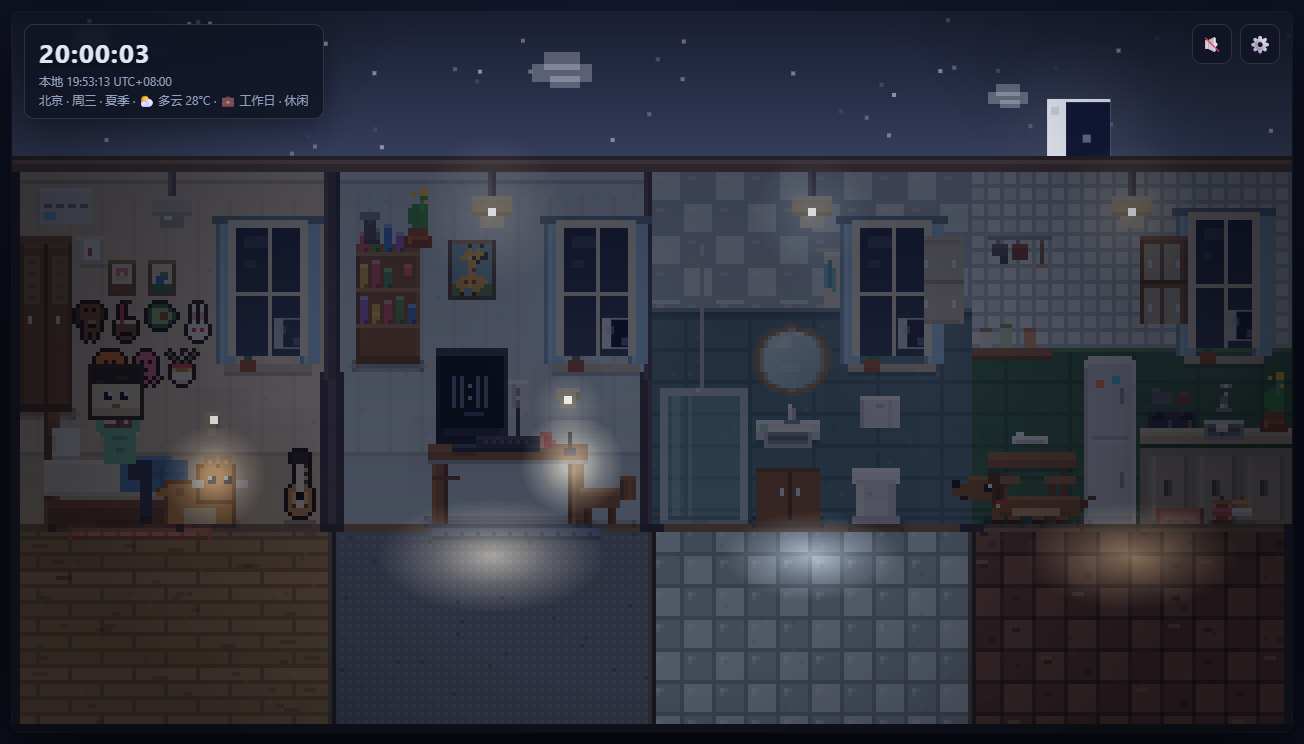
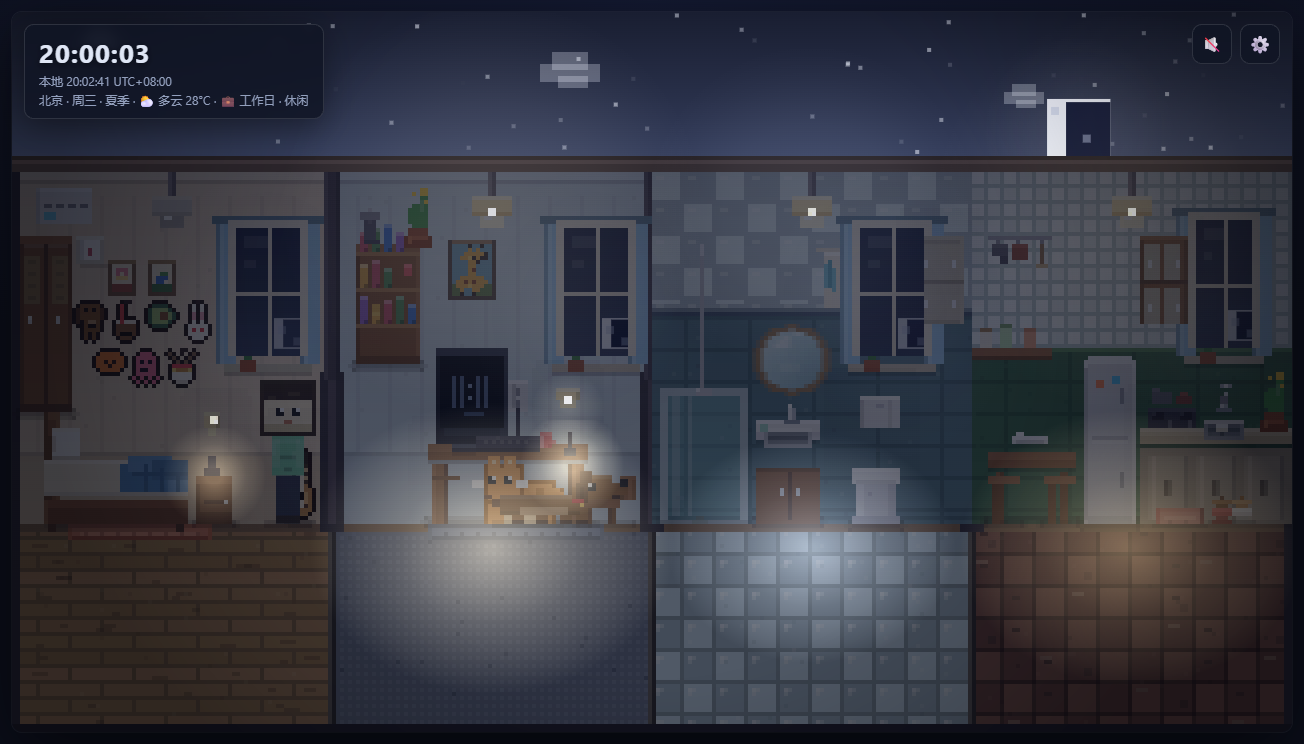
fix: 顶灯照明范围覆盖整间房，家具/人物/宠物均在光内且有整体亮度变化
- 光池半径加大到≥半房间宽（l.r×1.2），中心下移至地面，向上覆盖家具与人物全身
- 新增从灯辐射的房间泛光，照亮墙面/书架/柜顶等高处，开灯后整间房有亮度梯度而非仅灯与地板变亮
- 房间边缘（宠物/人物可能站位）也在光照范围内，隔墙保持暗不串光
- 附清晨/正午/傍晚/深夜四时段验证截图

diff --git a/js/lighting.js b/js/lighting.js
@@ -441,26 +441,30 @@
       ctx.fillRect(l.x, l.y, 1, 1);
 
       if (l.kind === 'ceiling') {
-        // 地面/床面光池：正下方压扁椭圆（中心落在地面，覆盖家具顶与地板）
+        // 1) 房间泛光：从灯向四周辐射，覆盖墙面/书架/柜顶等高处（有衰减，非雾）
+        const roomR = l.r * 1.4;
+        const g2 = ctx.createRadialGradient(l.x, l.y, 2, l.x, l.y, roomR);
+        g2.addColorStop(0, rgba(cc[0], cc[1], cc[2], a * 0.2));
+        g2.addColorStop(0.5, rgba(cc[0], cc[1], cc[2], a * 0.12));
+        g2.addColorStop(0.8, rgba(cc[0], cc[1], cc[2], a * 0.04));
+        g2.addColorStop(1, rgba(cc[0], cc[1], cc[2], 0));
+        ctx.fillStyle = g2;
+        ctx.fillRect(l.x - roomR, l.y - roomR, roomR * 2, roomR * 2);
+
+        // 2) 地面/家具/人物光池：中心在地面、向上覆盖家具与人物全身的压扁椭圆；
+        //    半径 ≥ 半房间宽，保证房间边缘的家具/宠物/人物也在光照范围内
         ctx.save();
-        ctx.translate(l.x, C.FLOOR_Y + 8);
-        ctx.scale(1, 0.5);
-        const R = l.r * 0.75;
+        ctx.translate(l.x, C.FLOOR_Y + 6);
+        ctx.scale(1, 0.8);
+        const R = l.r * 1.2;
         const pool = ctx.createRadialGradient(0, 0, 1, 0, 0, R);
-        pool.addColorStop(0, rgba(cc[0], cc[1], cc[2], Math.min(0.5, a * 1.05)));
-        pool.addColorStop(0.5, rgba(cc[0], cc[1], cc[2], a * 0.42));
-        pool.addColorStop(0.82, rgba(cc[0], cc[1], cc[2], a * 0.14));
+        pool.addColorStop(0, rgba(cc[0], cc[1], cc[2], Math.min(0.52, a * 1.1)));
+        pool.addColorStop(0.5, rgba(cc[0], cc[1], cc[2], a * 0.45));
+        pool.addColorStop(0.85, rgba(cc[0], cc[1], cc[2], a * 0.15));
         pool.addColorStop(1, rgba(cc[0], cc[1], cc[2], 0));
         ctx.fillStyle = pool;
         ctx.fillRect(-R, -R, R * 2, R * 2);
         ctx.restore();
-        // 墙面柔光（小范围，避免环境雾）：照亮灯附近墙面，提供受光反馈
-        const wash = ctx.createRadialGradient(l.x, l.y, 2, l.x, l.y, l.r * 0.5);
-        wash.addColorStop(0, rgba(cc[0], cc[1], cc[2], a * 0.26));
-        wash.addColorStop(0.5, rgba(cc[0], cc[1], cc[2], a * 0.12));
-        wash.addColorStop(1, rgba(cc[0], cc[1], cc[2], 0));
-        ctx.fillStyle = wash;
-        ctx.fillRect(l.x - l.r * 0.5, l.y - l.r * 0.5, l.r, l.r);
       } else if (l.kind === 'deskLamp') {
         // 桌面光斑：从灯罩向桌面扩散（方向性受光，局部而非空气）
         const g = ctx.createRadialGradient(l.x + 1, 113, 2, l.x + 1, 113, 13);

diff --git a/handoff.md b/handoff.md
@@ -117,6 +117,7 @@ Canvas 点击依次判断：
 
 - 灯具光重做：由"大半径加法光晕（环境雾）"改为"灯珠 + 表面光池"——顶灯在正下方地面/家具形成压扁椭圆光池，台灯在桌面、床头灯在床头柜形成局部暖光池；灯珠仅 2px，消除过曝白球。
 - 四盏顶灯独立配置：半径/亮度/色温各不相同（卧室暖黄 r34、工作区中性 r38、卫生间冷白 r30、厨房暖黄 r36），每间房独立照明，房间间隔墙不再被光雾淹没。
+- 顶灯照明范围覆盖整间房：光池半径 ≥ 半房间宽（中心在地面、向上覆盖家具与人物全身，房间边缘的宠物/人物也在光内）+ 一层从灯辐射的房间泛光（照亮墙面/书架/柜顶），开灯后整间房有整体亮度变化而非仅灯与地板变亮。
 - 墙面柔光缩小为灯具附近的局部微弱光（提供受光反馈但不成雾），地面/桌面/床面光池成为主要受光反馈。
 - 光源主次：白天以窗户光为主、灯默认关闭；夜间以顶灯为主、台灯/床头灯为局部辅光。
 - 窗户光照：墙体光晕中心下移（光从窗口洒向下方墙面与地面，而非对称环状），亮度再降；窗内太阳/月亮进一步缩小变淡（日轮 hSpan×0.11、光晕更紧），暮色天空降饱和、暖色集中在窗底，并按每扇窗采光微差。
